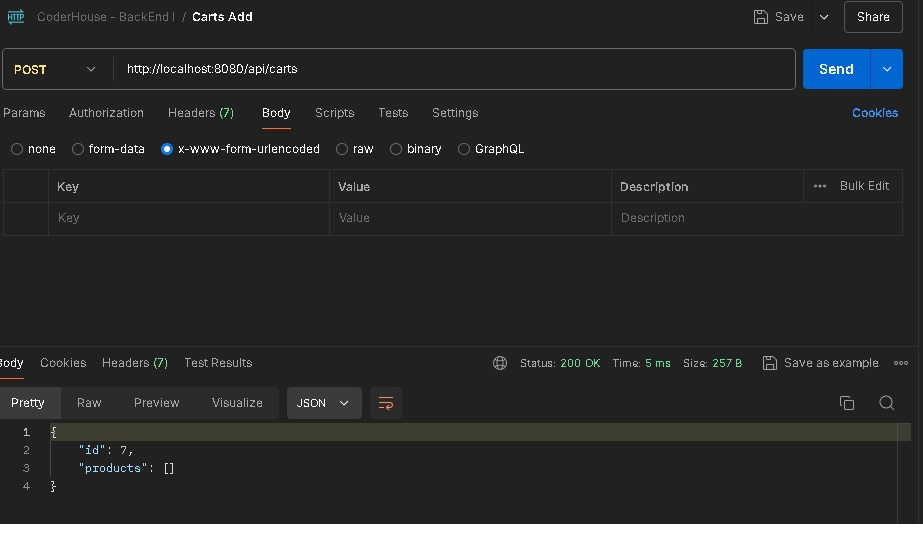
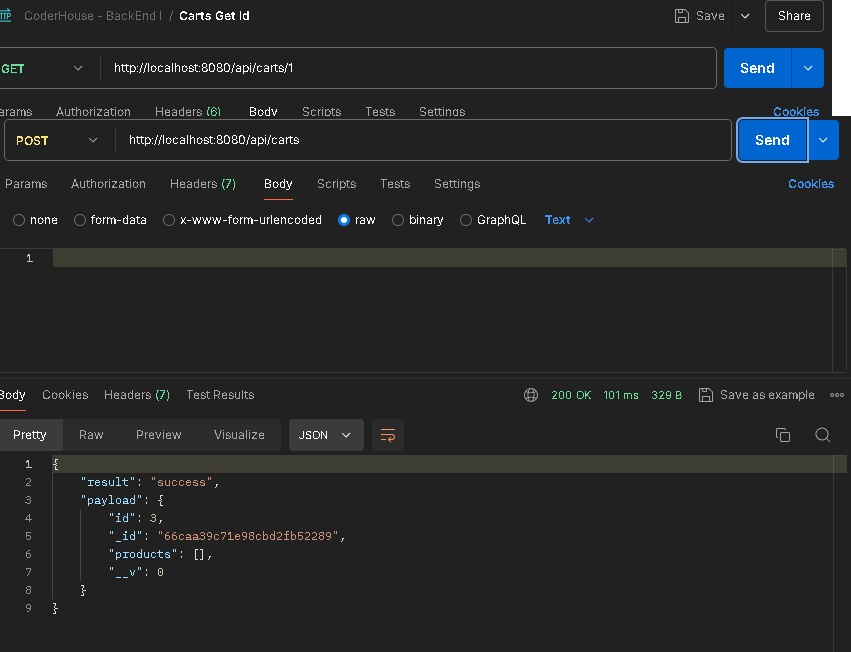
Agregar Productos al carrito

diff --git a/src/routes/carts.routers.js b/src/routes/carts.routers.js
@@ -1,134 +1,103 @@
 import express from 'express'
-import fs from 'fs'
+import cartsModel from "../models/carts.model.js";
+import productsModel from "../models/products.model.js";
+
+import { getNextIdC } from '../utils/utils.js';
+
+
 
 const router = express.Router();
 //const fs = require('fs');
 
-router.post('/api/carts', (req, res) => {
+router.post('/', async (req, res) => {
 
-    // Lee el archivo "carts.json"
-    fs.readFile('src/data/carts.json', 'utf8', (err, data) => {
-        if (err) {
-            console.error(err);
-            return res.status(500).json({ error: 'Internal Server Error' });
-        }
-        
-        const carts = (data === "")? [] : JSON.parse(data);
-        const id = carts.length > 0 ? carts[carts.length - 1].id + 1 : 1;
+    try {
 
-        const newCarts = { id, products : [] }
-        carts.push(newCarts);
+        const newCarts = new cartsModel({
+            id: await getNextIdC(),
 
-        // Escribe los productos actualizados en el archivo "productos.json"
-        fs.writeFile('src/data/carts.json', JSON.stringify(carts, null, 2), err => {
-            if (err) {
-                console.error(err);
-                return res.status(500).json({ error: 'Internal Server Error' });
-            }
-
-            res.json(newCarts);
         });
-    });
+    
+        await newCarts.save();
+
+        res.send({ result: "success", payload: newCarts }); 
+
+
+    } catch (error) {
+        console.log(error);
+        res.status(500).json({ msg: "Error: Al obtener Los Carritos." });
+    }
 });
 
-router.get('/api/carts/:cid', (req, res) => {
+router.get('/:cid', async (req, res) => {
 
-    // Lee el archivo "carts.json"
-    fs.readFile('src/data/carts.json', 'utf8', (err, data) => {
-        if (err) {
-            console.error(err);
-            return res.status(500).json({ error: 'Internal Server Error' });
-        }
-        
-        const carts = (data === "")? [] : JSON.parse(data);
-        const carts_id = req.params.cid;
+    try {
 
-        const cart = carts.find(cart => cart.id === parseInt(carts_id));
+        const idCart = req.params.cid;
 
-        // Escribe los productos actualizados en el archivo "productos.json"
-        fs.writeFile('src/data/carts.json', JSON.stringify(carts, null, 2), err => {
-            if (err) {
-                console.error(err);
-                return res.status(500).json({ error: 'Internal Server Error' });
-            }
+        const cartBuscado = await cartsModel.findOne({ id: idCart });
 
-            res.json(cart);
-        });
-    });
-});
-
-router.post('/api/carts/:cid/product/:pid', (req, res) => {
-    
-    
-    // Lee el archivo "carts.json"
-    fs.readFile('src/data/carts.json', 'utf8', (err, data) => {
-        if (err) {
-            console.error(err);
-            return res.status(500).json({ error: 'Internal Server Error' });
-        }
-        let products = [];
-        
-
-        const carts = JSON.parse(data);
-        //const products = BuscarProductos();
-        const carts_id = req.params.cid;
-        const producto_id = req.params.pid;
-
-        //console.log(carts_id)
-        //console.log(producto_id)
-
-        //console.log(products)
-
-        const cart = carts.find(cart => cart.id === parseInt(carts_id));
-        //const product = products.find(product => product.id === parseInt(producto_id));
-
-        //console.log(cart)
-        //console.log(product)
-
-        //const newCarts = { id, products { title, description };
-
-        console.log(products)
-
-        if (cart) { //&& product) {
-            const Cartproduct = cart.products.find(product => product.producto_id === producto_id);
-
-            console.log(Cartproduct)
-
-            if(Cartproduct) {
-                Cartproduct.quantity += 1;
-            } else {
-                const newProduct = {producto_id, quantity:1}
-                cart.products.push(newProduct);
-
-                //res.json(cart.products);
-            }
-
-            // Escribe los productos actualizados en el archivo "carts.json"
-            fs.writeFile('src/data/carts.json', JSON.stringify(carts, null, 2), err => {
-                if (err) {
-                    console.error(err);
-                    return res.status(500).json({ error: 'Internal Server Error' });
-                }
-
-                res.json(cart);
-            });
-
+        if (cartBuscado) {
+            res.status(200).json({
+                msg: `Filtro de Cart con id ${idCart}`,
+                cartBuscado,
+              });
         } else {
-            res.status(404).json({ error: 'Cart no encontrado' });
+            res.status(404).json({ error: 'Producto no filtrado' });
         }
-    });
+
+    } catch (error) {
+        console.log(error);
+        res.status(500).json({ msg: "Error: Al Buscar Carrito por numero de Id." });
+    }
 });
 
-function BuscarProductos () {
-    // Lee el archivo "products.json"
-    fs.readFile('src/data/products.json', 'utf8', (err, data) => {
-        if (err) {
-            console.error(err);
-            return res.status(500).json({ error: 'Internal Server Error' });
-        }
-        return JSON.parse(data);
-    });
+router.put('/:cid/product/:pid', async (req, res) => {
+    
+    try {  
 
-}
+
+        const idCart = req.params.cid;
+        const idProducto = req.params.pid;
+
+        const cartBuscado = await cartsModel.findOne({ id: idCart });
+        const productBuscado = await productsModel.findOne({ id: idProducto });        
+
+        if (cartBuscado) 
+        { 
+            if (productBuscado) 
+            { 
+                const updateData = {
+                    
+                };
+              
+                const productCart = cartBuscado.products.find(p => p.product && p.product.toString() === idProducto);
+
+                if (productCart) {
+        
+                    productCart.quantity += 1; 
+        
+                } else {
+                    cartBuscado.products.push({ product: idProducto, quantity: 1 });
+                }
+        
+                await cartBuscado.save();
+                
+
+                res.status(200).json({
+                    msg: `Se agrega el producto al Carrito`,
+                    cartBuscado,
+                });
+            } else {
+                res.status(404).json({ error: 'Producto a agregar no encontrado no encontrado' });
+            }   
+        } else {
+            res.status(404).json({ error: 'Carrito no encontrado' });
+        }
+    } catch (error) {
+        console.log(error);
+        res.status(500).json({ msg: "Error: Al Agregar un producto al Carrito." });
+    }
+});
 
 export default router

diff --git a/src/models/carts.model.js b/src/models/carts.model.js
@@ -8,7 +8,7 @@ const cartsSchema = new mongoose.Schema({
     type: [
       {
         product: {
-          type: mongoose.Schema.Types.ObjectId,
+          type: Number,
           ref: "products",
         },
         quantity: { type: Number },

diff --git a/README.md b/README.md
@@ -32,7 +32,7 @@ Servicio Rest CRUD Products y Carts.
 ![Post Products](/pruebas_imagen/Post_Cart_add.jpg)
 
 ### Put Producto en Carts
-![Post Products](/pruebas_imagen/Put_Cart_add.jpg)
+![Put Products](/pruebas_imagen/Post_productos_add.jpg)
 
 
 ### Todos los productos - Paginado
